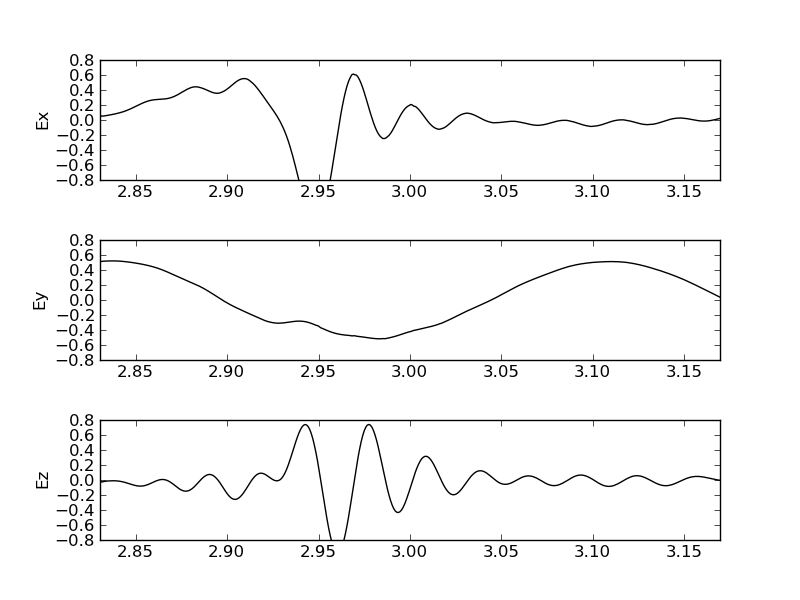
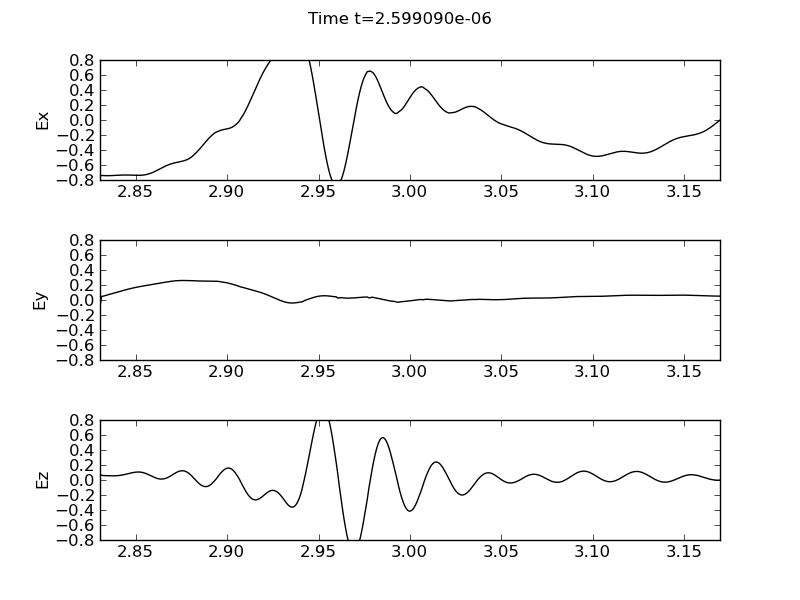
Added new files and updated movie

diff --git a/sims/s74/plt-E-ICW.py b/sims/s74/plt-E-ICW.py
@@ -10,12 +10,18 @@ nx = 400
 dx = (xup-xlo)/nx
 X = pylab.linspace(xlo+0.5*dx, xup-0.5*dx, nx)
 
+driveF = 40.5e6
+tEnd = 200/driveF
+T = pylab.linspace(0, tEnd, 191)
+
 for i in range(191):
     fh = tables.openFile("s74-icw_EM_%d.h5" % i)
     q = fh.root.StructGridField
 
     fig = pylab.figure(1)
     fig.subplots_adjust(hspace=0.5)
+
+    fig.suptitle('Time t=%e' % T[i])
 
     pylab.subplot(3, 1, 1)
     pylab.plot(X, q[:,0], 'k-')

diff --git a/sims/s76/plt-E-ICW.py b/sims/s76/plt-E-ICW.py
@@ -10,12 +10,18 @@ nx = 400
 dx = (xup-xlo)/nx
 X = pylab.linspace(xlo+0.5*dx, xup-0.5*dx, nx)
 
+driveF = 40.5e6
+tEnd = 200/driveF
+T = pylab.linspace(0, tEnd, 191)
+
 for i in range(191):
     fh = tables.openFile("s76-icw_EM_%d.h5" % i)
     q = fh.root.StructGridField
 
     fig = pylab.figure(1)
     fig.subplots_adjust(hspace=0.5)
+
+    fig.suptitle('Time t=%e' % T[i])
 
     pylab.subplot(3, 1, 1)
     pylab.plot(X, q[:,0], 'k-')

diff --git a/sims/s74/efld-fft.py b/sims/s74/efld-fft.py
@@ -1,0 +1,16 @@
+import pylab
+import tables
+import math
+import numpy
+
+nx = 400
+nt = 190
+Ex_TX = numpy.zeros((nt+1, nx), numpy.float)
+
+for i in range(191):
+    fh = tables.openFile("s74-icw_EM_%d.h5" % i)
+    q = fh.root.StructGridField
+    Ex = q[:,0]
+    Ex_TX[i,:] = Ex
+
+

diff --git a/je/je10/je10-icw.rst b/je/je10/je10-icw.rst
@@ -2,7 +2,160 @@
 :Date: October 30th 2011
 :Completed: 
 
-JE9: Ion-cyclotron wave (ICW) propagation
-=========================================
+JE9: Ion-cyclotron wave (ICW) propagation and mode conversion
+=============================================================
 
-Something here
+The ion-cyclotron wave (ICW) is a short-wavelength cold-plasma wave
+that occurs when an electromagnetic wave is pumped into a plasma
+threaded with a magnetic field that is oblique to the direction of
+wave propagation. This situation is encountered in the laboratory in
+ion-cyclotron resonance heating (ICRH) in tokamaks.
+
+In this problem tokamak-like parameters are used to initialize the
+plasma. The domain is assumed to be :math:`x\in[2.83, 3.17]`. The
+tokamak major radius is assumed to be :math:`R_0=3.0` meters. The
+density profile is computed using
+
+.. math::
+
+  n(x) = f(x)(n_{0s} - n_{ws}) + n_{ws}
+
+where, :math:`s` is the species index, :math:`n_{0s}` are
+:math:`n_{ws}` reference number densities, and the :math:`f(x)`
+profile is computed from
+
+.. math::
+
+  f(x) = 1-\left(\frac{x-R_0}{a}\right)^\alpha
+
+Here :math:`a` is the wall radius, and :math:`\alpha` is a constant
+that controls the shape of the profile. We have set :math:`a=1`,
+:math:`\alpha=2` and :math:`\beta = 1` to give a quadratic density
+profile. An external magnetic field is initialized using :math:`B_x(x)
+= B_z(x)/10` with :math:`B_z(x) = B_0 R_0/x`, where :math:`B_0 = 4`
+Tesla. The external field is held fixed during the simulation.
+
+The plasma contains three species: electrons, deuterium and
+Helium-3. The reference densities are set to :math:`4\times 10^{19}`,
+:math:`3.6\times 10^{19}` and :math:`2\times 10^{18}`
+:math:`\mathrm{m}^{-3}` respectively. The wall reference densities are
+all set to 0.
+
+The plasma is illuminated with a antenna source operating at a
+frequency of :math:`40.5` MHz.  The antenna current source is
+specified using
+
+.. math::
+
+  J_y(t) = J_0\sin(2\pi f_d t)\thinspace
+  \sin^2\big(0.5\pi \min(1, t/t_0)\big)
+
+where :math:`f_d = 40.5\times 10^6` Hz is the drive frequency and
+:math:`t_0=5/f_d` is the time at which the source turns on completely.
+
+Two cases are considered: high-field incidence (antenna is on the
+left) and low-field incidence (antenna is on the right). Results are
+presented below.
+
+Notes on the simulations
+------------------------
+
+These simulations are quite complex (over 500 lines of Lua) as there
+are three fluid species and a static background magnetic field. This
+means that we need to create 4 solvers (one for each species and the
+EM field) and take into account the Lorentz force on each species and
+the current contributions from each species. Further, the static field
+also exerts a Lorentz force on each species.
+
+One observation was that the simulation needs to be run close to the
+allowed CFL limit (of 1.0 in 1D) in order for the solutions to look
+reasonable. This means, unfortunately, that there need to be enough
+cells in the domain so that the time-step from speed of light
+constraint is smaller than that allowed by the plasma
+frequency. Another option is to treat the electron physics implicitly.
+
+High-field incidence
+--------------------
+
+In the high-field incidence simulation the antenna is placed in the
+first cell (left) in the domain. In this case there is strong mode
+conversion of the fast wave to the ICW. The simulation needs to be run
+for around 100 periods before the mode conversion is clearly visible.
+
+The oblique angle of propagation results in all three electric field
+components. The :math:`E_y` component is domainated by the fast wave
+and shows a standing wave pattern. The :math:`E_z` component is
+dominated by the mode-converted ICW while the :math:`E_x` shows
+both. At the mode conversion layer the :math:`E_x` field shows a sharp
+gradient.
+
+.. figure:: s74-ICW-E_00050.png
+  :width: 100%
+  :align: center
+
+  Electric field components, :math:`E_x` (top panel), :math:`E_y`
+  (middle panel) and :math:`E_z` (bottom panel) for high-field
+  incidence (antenna is on the left). The plot is around the time when
+  the ICW mode conversion is starting to occur. [:doc:`s74
+  <../../sims/s74/s74-icw>`]
+
+.. figure:: s74-ICW-E_00100.png
+  :width: 100%
+  :align: center
+
+  Electric field components, :math:`E_x` (top panel), :math:`E_y`
+  (middle panel) and :math:`E_z` (bottom panel) for high-field
+  incidence.
+
+.. figure:: s74-ICW-E_00150.png
+  :width: 100%
+  :align: center
+
+  Electric field components, :math:`E_x` (top panel), :math:`E_y`
+  (middle panel) and :math:`E_z` (bottom panel) for high-field
+  incidence.
+
+Low-field incidence
+-------------------
+
+In the low-field incidence simulation the antenna is placed in the
+last cell (right) in the domain. In this case the mode conversion is
+weaker than in the high-field incidence case. The differences are
+clearly visible from the high-field incidence case in the :math:`E_x`
+and :math:`E_z`. The gradients are much weaker while the amplitudes
+are smaller.
+
+.. figure:: s76-ICW-E_00050.png
+  :width: 100%
+  :align: center
+
+  Electric field components, :math:`E_x` (top panel), :math:`E_y`
+  (middle panel) and :math:`E_z` (bottom panel) for low-field
+  incidence (antenna is on the right). The plot is around the time
+  when the ICW mode conversion is starting to occur. [:doc:`s76
+  <../../sims/s76/s76-icw>`]
+
+.. figure:: s76-ICW-E_00100.png
+  :width: 100%
+  :align: center
+
+  Electric field components, :math:`E_x` (top panel), :math:`E_y`
+  (middle panel) and :math:`E_z` (bottom panel) for low-field
+  incidence.
+
+.. figure:: s76-ICW-E_00150.png
+  :width: 100%
+  :align: center
+
+  Electric field components, :math:`E_x` (top panel), :math:`E_y`
+  (middle panel) and :math:`E_z` (bottom panel) for low-field
+  incidence.
+
+Conclusions
+-----------
+
+A multi-fluid model is used to peform ICW mode conversion
+simulations. Strong mode conversion is seen in the high-field
+incidence case. The algorithm needs to be run close to the allowed CFL
+limit to avoid unphysical oscillations in the electric field. This can
+be avoided by using an implicit scheme for the electron motion.

diff --git a/sims/simindex.rst b/sims/simindex.rst
@@ -164,6 +164,7 @@ program for that simulation.
     - Ion-cyclotron wave propagation in a 1D tokamak-like configuration, 400 cells.
   * - :doc:`s75 <s75/s75-icw>` 
     - Ion-cyclotron wave propagation in a 1D tokamak-like configuration, 200 cells.
+      This simulation does not work very well as the resolution is too low.
   * - :doc:`s76 <s76/s76-icw>` 
     - Ion-cyclotron wave propagation in a 1D tokamak-like configuration, 
       low-field incidence.
